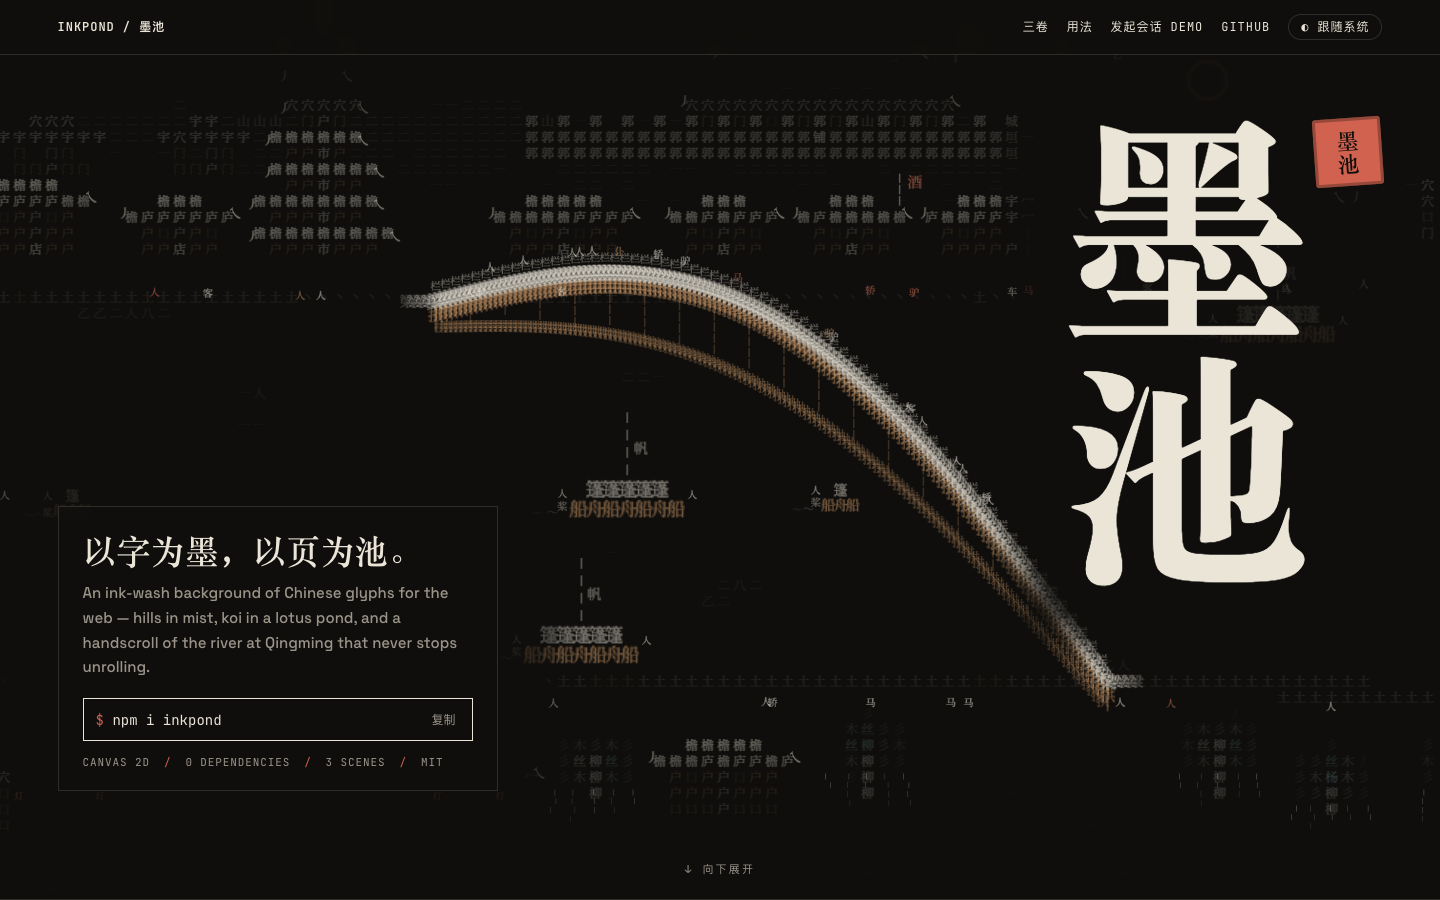
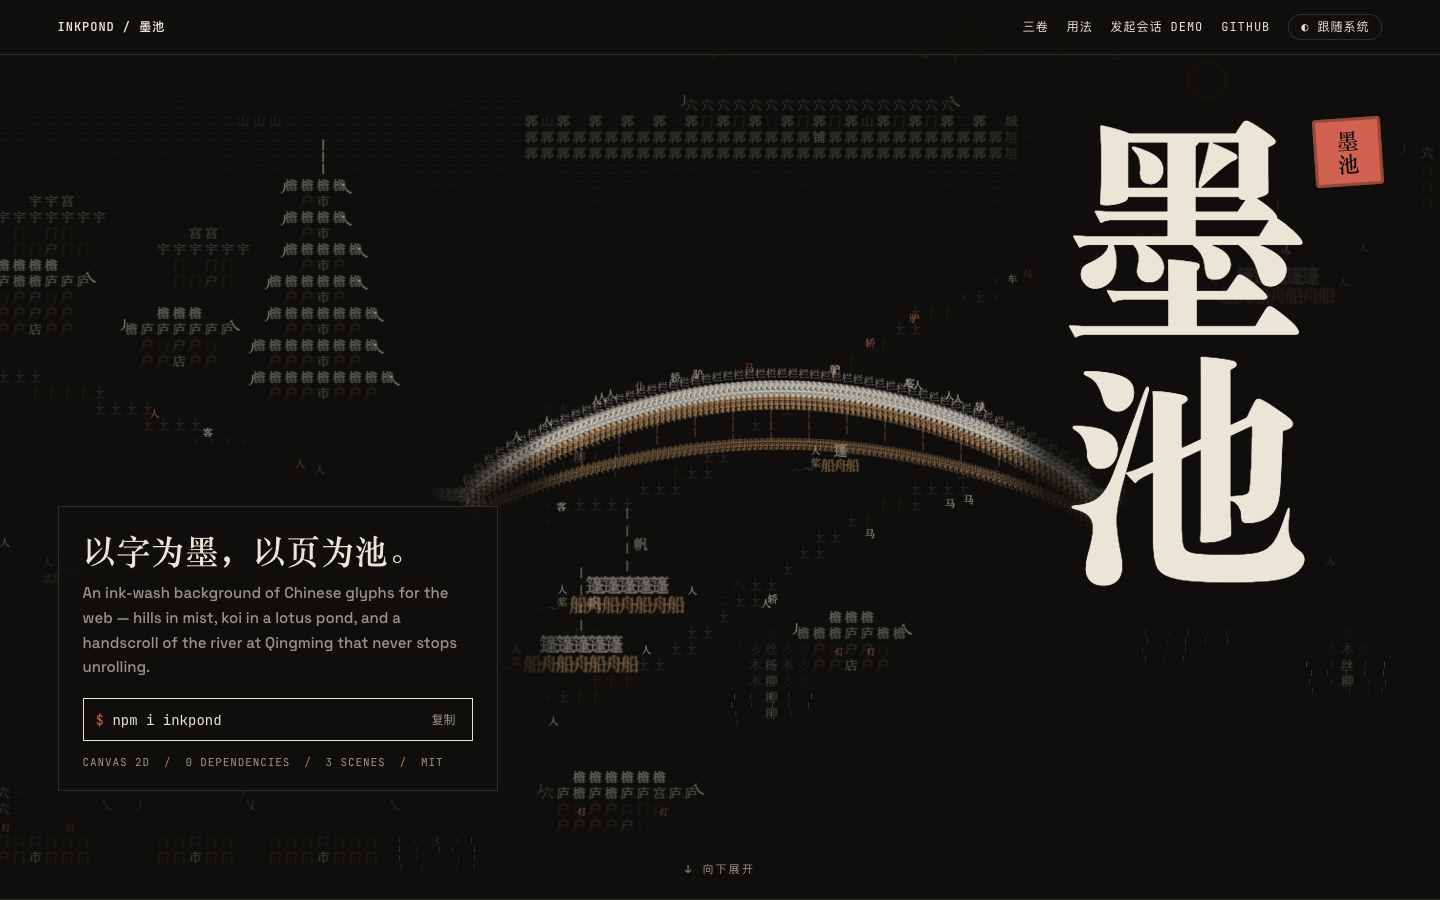
Redraw the 虹桥 as the painting's broad, even arch
The bridge had its feet on two banks at different heights, which made it
a long slide. Now the river narrows and winds through an S-bend at the
bridge, crossing the bridge's row diagonally, so both feet stand at one
level on opposite banks and the deck rises into a full, rounded crown a
sixth of the span high. North-bank houses that would stand in the deck's
way give that stretch of bank to the bridge.

diff --git a/src/scenes/qingming.ts b/src/scenes/qingming.ts
@@ -152,9 +152,9 @@ export const createQingming = (
   let haze: CoarseField = coarseField(0, 0);
   /**
    * The 虹桥: its north foot at world column `at`, its south foot `span`
-   * columns on, each on its bank's row, the arch lifted `rise` rows.
+   * columns on, both on row `row`, the arch lifted `rise` rows between.
    */
-  let bridge = { at: 0, north: 0, rise: 0, south: 0, span: 1 };
+  let bridge = { at: 0, rise: 0, row: 0, span: 1 };
   let fixtures: Fixture[] = [];
   let boats: Boat[] = [];
   let walkers: Walker[] = [];
@@ -172,16 +172,39 @@ export const createQingming = (
    * The river is wide and mostly blank paper across the middle, where a
    * page's content usually sits; the life of the scroll is on its banks.
    */
-  const riverTop = (x: number) => rows * (0.33 + 0.03 * bank(x, 1.7));
-  const riverBottom = (x: number) => rows * (0.73 + 0.03 * bank(x, 5.3));
   /**
-   * The deck's row `t` of the way from the north foot to the south: the
-   * straight line between the banks, lifted into an arch.
+   * Near the bridge the river narrows and swings through an S-bend, low
+   * on the bridge's left and high on its right, so it crosses the bridge's
+   * row diagonally: both feet stand at one level, the north foot above the
+   * water and the south foot below it, as in the painting.
+   */
+  const riverCenter = (x: number) => {
+    const d = wrap(x - bridge.at - bridge.span / 2, W);
+    const dc = d > W / 2 ? d - W : d;
+    const reach = bridge.span * 1.2;
+    const bend =
+      -Math.tanh(dc / (bridge.span * 0.35)) *
+      Math.exp(-((dc / reach) ** 2)) *
+      rows *
+      0.17;
+    return rows * (0.53 + 0.02 * bank(x, 1.7)) + bend;
+  };
+  const riverHalf = (x: number) => {
+    const d = wrap(x - bridge.at - bridge.span / 2, W);
+    const dc = d > W / 2 ? d - W : d;
+    return (
+      rows *
+      (0.2 - 0.12 * Math.exp(-((dc / bridge.span) ** 2)) + 0.015 * bank(x, 5.3))
+    );
+  };
+  const riverTop = (x: number) => riverCenter(x) - riverHalf(x);
+  const riverBottom = (x: number) => riverCenter(x) + riverHalf(x);
+  /**
+   * The deck's row `t` of the way from the north foot to the south: level
+   * feet, lifted into a broad arch with a full, rounded crown.
    */
   const archRow = (t: number, lift = 1) =>
-    bridge.north +
-    (bridge.south - bridge.north) * t -
-    bridge.rise * lift * Math.sin(Math.PI * t);
+    bridge.row - bridge.rise * lift * Math.sin(Math.PI * t) ** 0.75;
   /** Bridge deck row at world column x (fractional), or null off the span. */
   const deckRow = (x: number) => {
     const t = fromBridge(x) / bridge.span;
@@ -334,13 +357,12 @@ export const createQingming = (
     const rand = rng(W * 31 + rows);
     // The first screen gets the pagoda on the left, the city gate up to
     // the right and the bridge leaping the river between them.
-    const at = Math.round(cols * 0.32);
-    // Wide and low against the drop between the banks, so it reads as the
-    // painting's broad arch seen from above rather than a steep ramp.
-    const span = clamp(Math.round(cols * 0.46), 28, 56);
-    const north = riverTop(at) - 0.4;
-    const south = riverBottom(at + span) + 0.4;
-    bridge = { at, north, rise: (south - north) * 0.46, south, span };
+    // A broad, shallow, even arch, its crest a sixth of its span high.
+    const span = clamp(Math.round(cols * 0.42), 26, 52);
+    const at = Math.round(cols * 0.55 - span / 2);
+    bridge = { at, rise: clamp(span * 0.17, 4, 8), row: 0, span };
+    const row = riverCenter(at + span / 2);
+    bridge.row = row;
     const gate = Math.round(cols * 0.58);
     const tower = Math.round(cols * 0.24);
 
@@ -416,7 +438,15 @@ export const createQingming = (
       while (x < W - 6) {
         const width = 4 + Math.floor(rand() * 5);
         const foot = fromBridge(x) - (side === "north" ? 0 : bridge.span);
-        if (foot > -width - 4 && foot < 4) {
+        // North of the river under the arch, a house would stand in the
+        // deck's way: leave the bank there to the bridge.
+        const d = fromBridge(x);
+        const underArch =
+          side === "north" &&
+          d > -width - 2 &&
+          d < bridge.span + 2 &&
+          Math.floor(riverTop(x)) - 6 < bridge.row - bridge.rise + 1;
+        if ((foot > -width - 4 && foot < 4) || underArch) {
           x += 2;
           continue;
         }
@@ -460,8 +490,7 @@ export const createQingming = (
     // 虹桥: a timber arch of loose glyphs from bank to bank — railing
     // above, a deck, the beams of the arch beneath tied by struts, piers
     // and short approaches at either foot, the river open below.
-    const length = Math.hypot(span, south - north);
-    const steps = Math.ceil(length / 0.36);
+    const steps = Math.ceil(span / 0.34);
     for (let k = 0; k <= steps; k++) {
       const t = k / steps;
       const col = at + span * t;
@@ -480,9 +509,9 @@ export const createQingming = (
         }
       }
     }
-    for (const [col, row, dir] of [
-      [at, north, -1],
-      [at + span, south, 1],
+    for (const [col, dir] of [
+      [at, -1],
+      [at + span, 1],
     ] as const) {
       for (let r = 1; r < 3; r++) fix(col, row + r * 0.75, G.mast, 1, 0.7, ZHE);
       for (let k = 1; k <= 4; k++) {
@@ -553,7 +582,7 @@ export const createQingming = (
 
   const walkerRow = (w: Walker) => {
     const col = w.x / cell + 0.5;
-    if (w.path === "bridge") return (deckRow(col) ?? bridge.north) - 1.3;
+    if (w.path === "bridge") return (deckRow(col) ?? bridge.row) - 1.3;
     if (w.path === "north") return riverTop(col) - 0.8;
     return riverBottom(col) + 1.8;
   };

diff --git a/demo/Landing.tsx b/demo/Landing.tsx
@@ -234,7 +234,7 @@ const ScenePanel = ({
 
 const STATS = [
   ["0", "运行时依赖"],
-  ["0.8", "ms / 帧，静水时的脚本开销"],
+  ["0.7", "ms / 帧，静水时的脚本开销"],
   ["1.9", "ms / 帧，满屏搅动的 p95"],
   ["10–20", "KiB，每个场景的字体子集，按需加载"],
   ["30", "秒无操作即停帧，下一次输入再醒"],

diff --git a/README.md b/README.md
@@ -18,7 +18,7 @@
 | --- | --- | --- |
 | `shanshui`（默认） | 两重远山，云雾飘过 | 只有云雾 |
 | `lotus` | 俯看荷塘：带缺口和叶脉的荷叶、胭脂色荷花、花青浮萍 | 鲤鱼绕开页面内容游动，鼠标靠近会散开，落墨处会游过来；游到荷叶下会隐去大半 |
-| `qingming` | 清明上河长卷：群山之下城郭绵延，城楼三重、宝塔五层，山脚没入一带云烟；两岸飞檐屋舍、酒旗灯笼、垂柳；一座宏大的木拱虹桥如原画那样从北岸飞跨到南岸 | 长卷每秒向左展开 7px，船夫撑船往来，行人走街过桥，飞鸟掠过，酒旗柳丝随风摆；在岸上落墨会惊散附近的人 |
+| `qingming` | 清明上河长卷：群山之下城郭绵延，城楼三重、宝塔五层，山脚没入一带云烟；两岸飞檐屋舍、酒旗灯笼、垂柳；河道在桥下蜿蜒斜穿，一座宏大的木拱虹桥如原画那样两脚平落两岸、弧顶高起 | 长卷每秒向左展开 7px，船夫撑船往来，行人走街过桥，飞鸟掠过，酒旗柳丝随风摆；在岸上落墨会惊散附近的人 |
 
 荷塘和清明上河用一点淡彩（朱、胭脂、赭石、花青），设 `tint={false}` 就只用墨色。
 
@@ -140,7 +140,7 @@ const pondRef = useRef<InkPond | null>(null); // InkPond 类型来自 "inkpond"
   | --- | --- | --- | --- |
   | 山水 | 0.2 / 0.3 ms | 0.9 / 1.8 ms | 0.1 ms |
   | 荷塘 | 0.2 / 0.3 ms | 1.1 / 1.9 ms | < 0.1 ms |
-  | 清明上河 | 0.8 / 1.0 ms | 1.4 / 1.8 ms | 0.2 ms |
+  | 清明上河 | 0.7 / 0.9 ms | 1.1 / 1.5 ms | 0.2 ms |
 
   每帧预算是 8 ms。开销几乎全在贴图调用；关掉 GPU 用 CPU 光栅化时，满屏搅动约 9 ms，这正是起始档位和自动降级要处理的情况。
 - **自动降级**：最近 10 帧的中位数超过 16 ms，或帧间隔超过 60 ms，直接切到静帧；每 60 帧统计一次，p95 超过 8 ms 或帧间隔超过 40 ms，就降一档。降级结果在这台设备上记 30 天。
